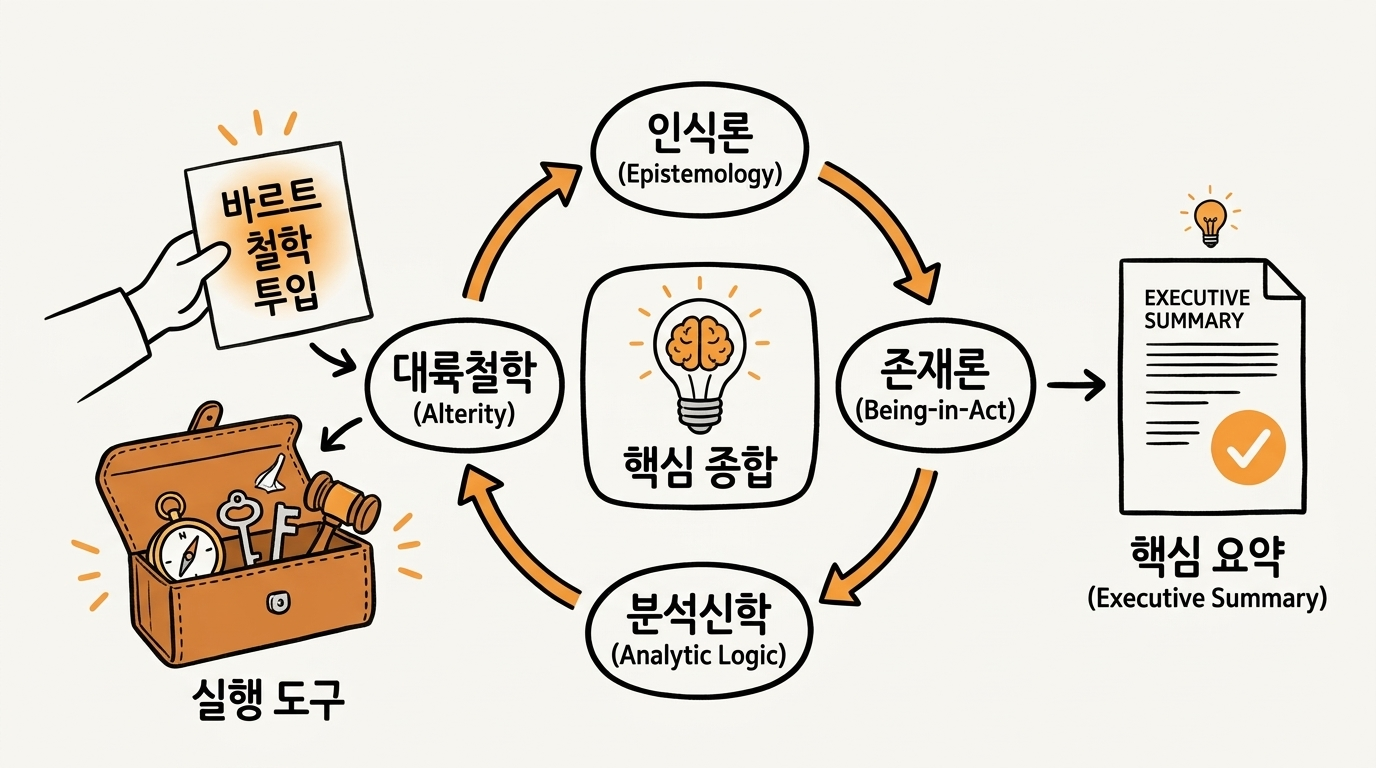
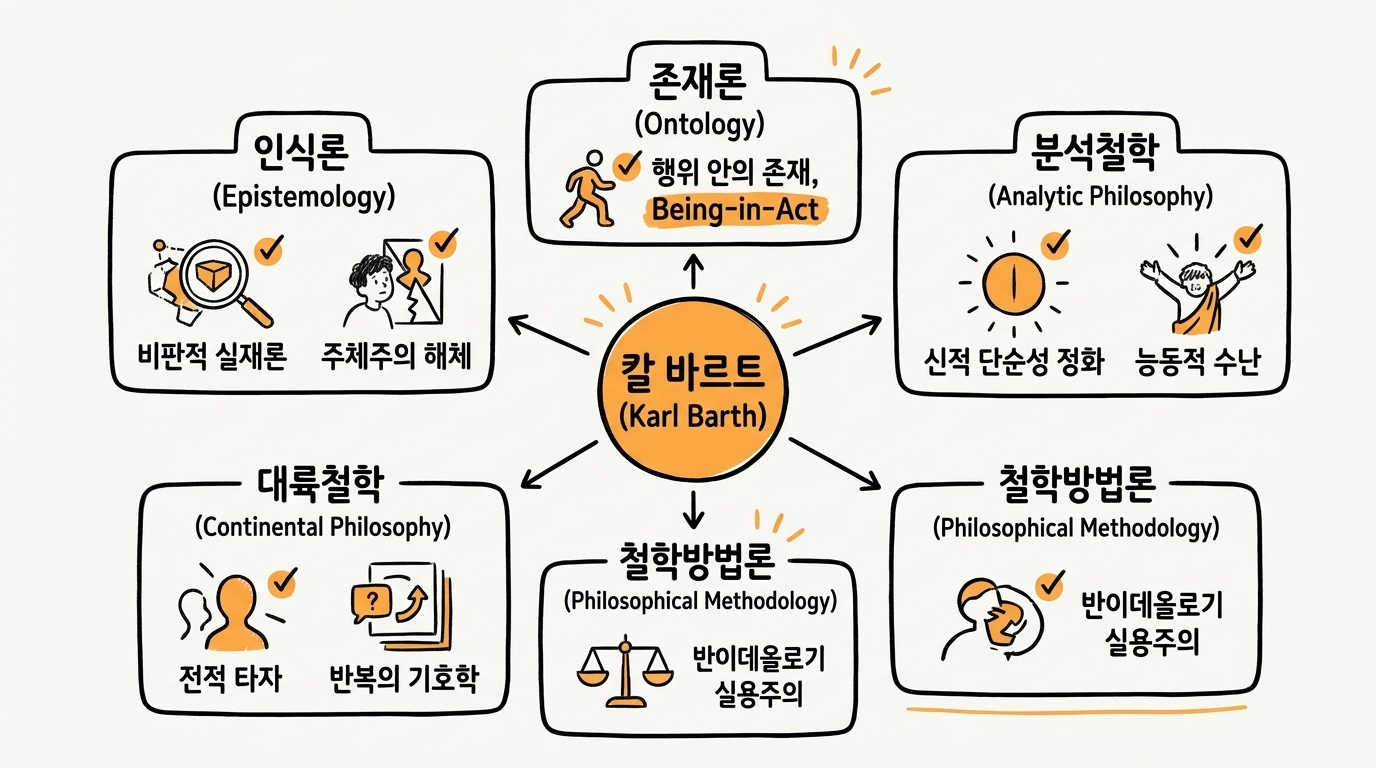
feat: Update briefing infographic with 5-domain philosophical conceptual map

Changed region(s): [[0.0312, 0.0312, 0.9688, 0.9688]]

diff --git a/karl_barth_in_philosophy_recon.html b/karl_barth_in_philosophy_recon.html
@@ -414,8 +414,8 @@
 
     <!-- Visual Briefing Hero Figure -->
     <figure class="hero-figure">
-      <img src="assets/barth_philosophy_briefing.jpg" alt="현대 철학 지형 속 칼 바르트 사유의 핵심 종합 워크플로" class="hero-image">
-      <figcaption class="hero-caption">그림 1. 현대 철학 지형 속 칼 바르트 사유의 4대 순환과 핵심 종합(Executive Summary) 워크플로</figcaption>
+      <img src="assets/barth_philosophy_briefing.jpg" alt="현대 철학 지형 속 칼 바르트 연구의 5대 핵심 개념 맵" class="hero-image">
+      <figcaption class="hero-caption">그림 1. 현대 철학 지형 속 칼 바르트 연구의 5대 핵심 개념 맵(The Conceptual Map of Karl Barth's Contemporary Philosophy)</figcaption>
     </figure>
 
     <!-- Section 1: 5 Major Turns & Matrix -->
